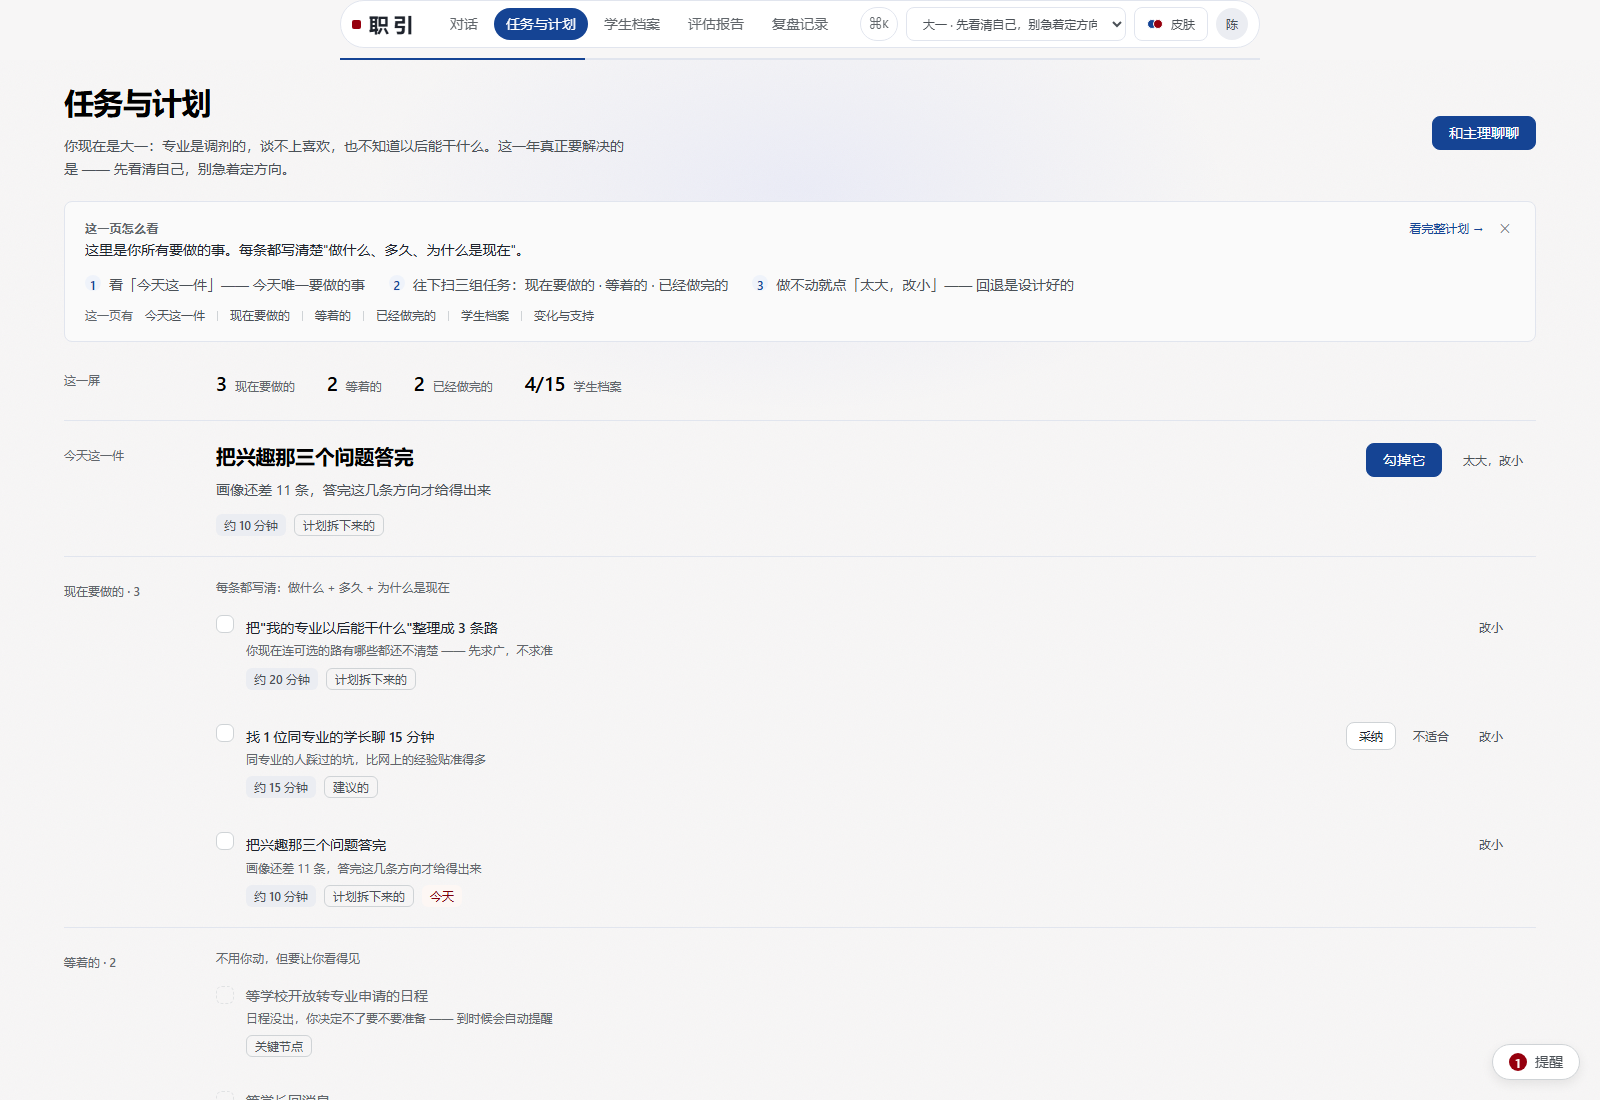
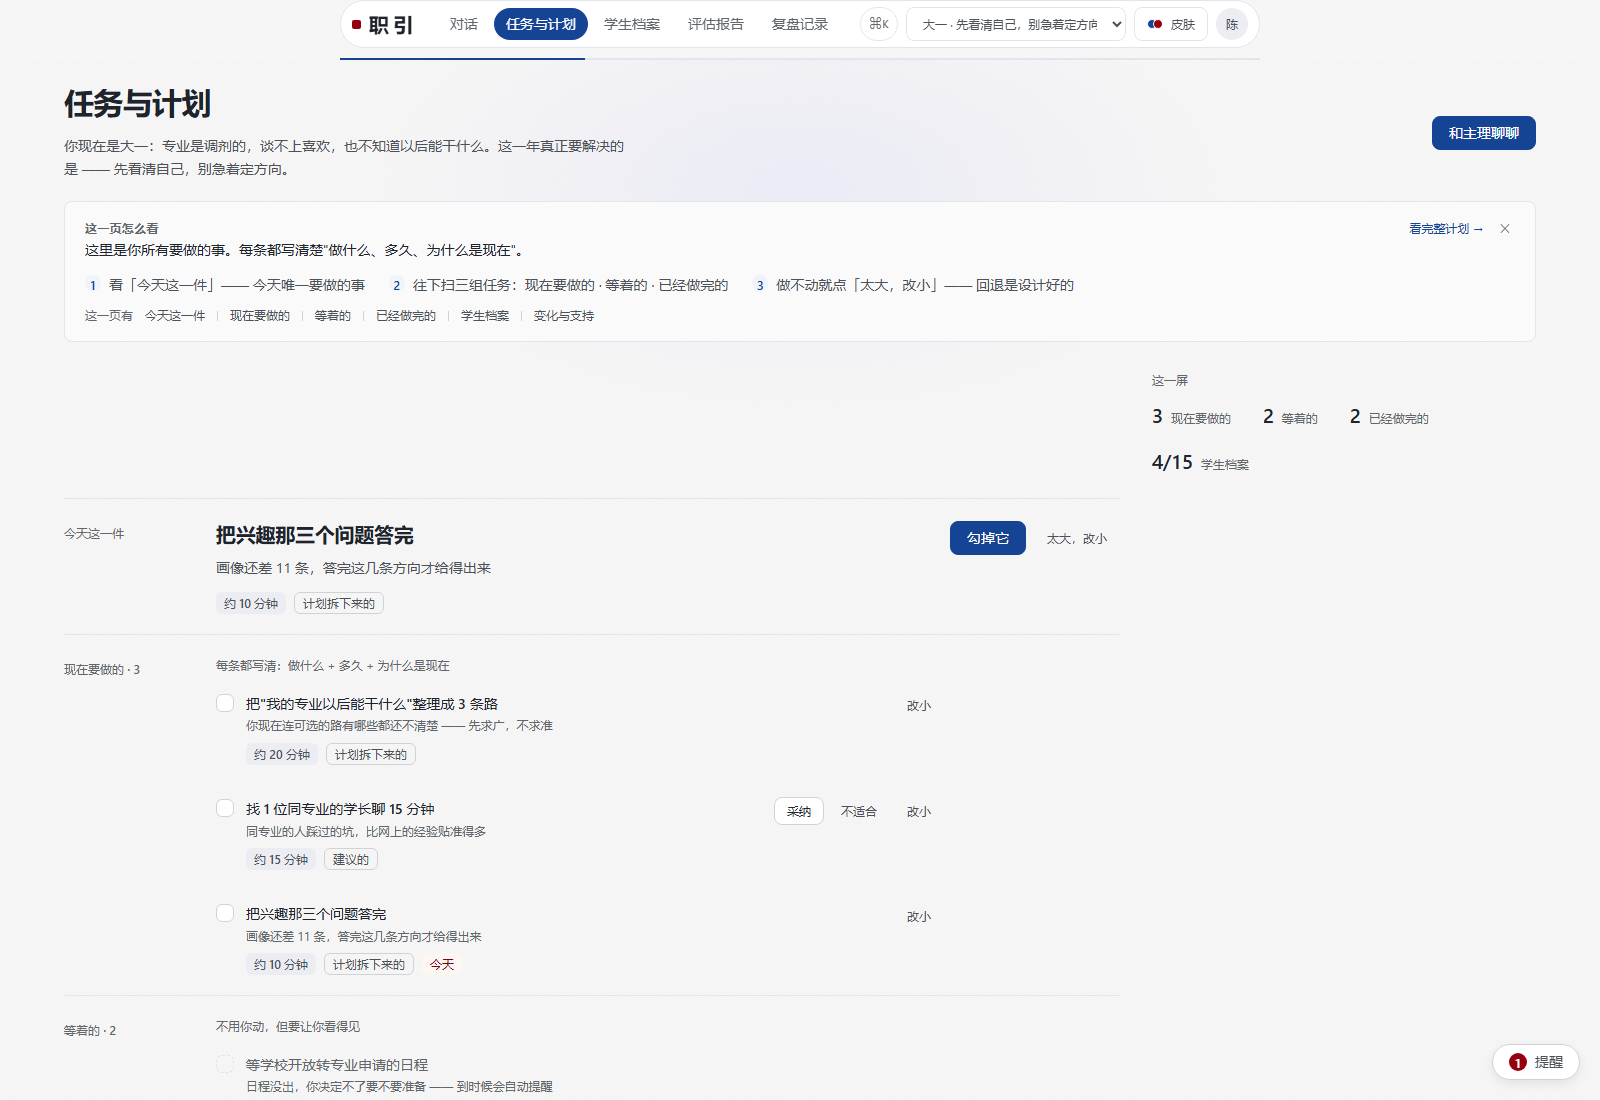
新前端：首页改成两区（清单 + 常驻状态），列表行不再横跨整页
客户的原话：「上下左右都有信息，用户不知道如何使用」。
结构上的原因：账页每行横跨 1520px —— 左侧标签格在 x=215、动作在最右 x=1450，
眼睛要横跨 1200px 才能把一行读完。上一轮只给了阅读顺序（入口带），没解决横向铺开。

改动：
- 首页 .ledger--rail 两区：
  · 左栏（1056px）今天这一件 + 三组任务 —— 清单，一条从上到下的顺序
  · 右栏（384px）这一屏计数 + 学生档案进度 —— 常驻状态，不占左栏的注意力
  · 末行"变化与支持"通栏（它本身就是并排两栏，塞进 384px 会挤坏）
  右栏被真内容占住，所以不是"收窄版心再留一片白"。
- 列表行收在 52em（实测 728px）：内容与它的动作贴在一起，
  不再需要横跨 1200px 去够最右边那个按钮。
  行的归属由**标签文字**决定（这一屏/学生档案→右栏，变化与支持→通栏），
  不写死行序 —— 以后插一行不会错位。
- 1080px 以下退回单栏。

实测：网格 1056+384；右栏两行落在 x=1143；通栏 1472；列表行 728px。
build / check-contrast / check-classes 三条门禁全绿。

diff --git a/redesign-demo/src/views/HomeView.vue b/redesign-demo/src/views/HomeView.vue
@@ -79,11 +79,11 @@ function badgeClass(t: TaskItem) {
       to-label="看完整计划"
     />
 
-    <div class="ledger">
+    <div class="ledger ledger--rail">
       <!-- 紧凑统计条（2026-10-12 新加）：这一屏"有几个什么"摊在一条线上，一眼看完，
            不用往下滚。它刻意不做成"大数字 + 强调色"的 hero metric ——
            数字与正文同级、无强调色、无独立卡片。 -->
-      <section class="ledger__row">
+      <section class="ledger__row ledger__row--rail">
         <p class="ledger__label">这一屏</p>
         <div class="ledger__body">
           <div class="tally">
@@ -201,7 +201,7 @@ function badgeClass(t: TaskItem) {
       </section>
 
       <!-- 学生档案：进度不再是"第二列的一张卡"，而是账页里的一行 -->
-      <section class="ledger__row">
+      <section class="ledger__row ledger__row--rail">
         <p class="ledger__label">学生档案 · {{ progress.known }}/{{ progress.total }}</p>
         <div class="ledger__body">
           <p class="progress__text">{{ partialCopy(progress.known, progress.gap) }}</p>
@@ -225,7 +225,7 @@ function badgeClass(t: TaskItem) {
       </section>
 
       <!-- 最后一行：两件"说明"并排。它们本来就不必各占一整行。 -->
-      <section class="ledger__row">
+      <section class="ledger__row ledger__row--wide">
         <p class="ledger__label">变化与支持</p>
         <div class="ledger__body ledger__body--pair">
           <div>
@@ -386,5 +386,12 @@ function badgeClass(t: TaskItem) {
 .mini__row dd {
   margin: 0;
   font-weight: var(--fw-medium);
+}
+
+/* 【2026-10-12】列表行不再横跨整个版心：内容 + 它的动作收在 52em 内，
+   眼睛不用横跨 1200px 去够最右边那个按钮。右边那 384px 由常驻状态栏占用，
+   不是留白 —— 所以没有回到"太空"。 */
+.task {
+  max-width: 52em;
 }
 </style>

diff --git a/redesign-demo/src/styles/base.css b/redesign-demo/src/styles/base.css
@@ -1677,3 +1677,43 @@ html.is-skin-switching *::after {
     grid-column: 1;
   }
 }
+
+/* ===========================================================================
+   两区账页（.ledger--rail）
+   ---------------------------------------------------------------------------
+   客户：「上下左右都有信息，用户不知道如何使用。」
+   单栏通宽时，每行要横跨 1520px 才能读完 —— 左侧标签在 x=215，动作在 x=1450。
+   这里把它变成两区：左栏是清单，右栏是**常驻状态**（计数、进度）。
+   两区，一条从上到下的阅读顺序，眼睛不再左右横跳。
+   末行用 --wide 通栏（它本身就是并排两栏的内容，塞进 384px 会挤坏）。
+   =========================================================================== */
+.ledger--rail {
+  display: grid;
+  grid-template-columns: minmax(0, 1fr) 384px;
+  column-gap: var(--sp-7);
+  align-items: start;
+}
+
+.ledger--rail > .ledger__row {
+  grid-column: 1;
+}
+
+.ledger--rail > .ledger__row--rail {
+  grid-column: 2;
+}
+
+.ledger--rail > .ledger__row--wide {
+  grid-column: 1 / -1;
+}
+
+/* 右栏那几行不再拧成"标签 + 内容"三格，改成上下叠 —— 384px 里放不下三格 */
+.ledger--rail > .ledger__row--rail {
+  grid-template-columns: minmax(0, 1fr);
+  gap: var(--sp-2);
+}
+
+@media (max-width: 1080px) {
+  .ledger--rail {
+    grid-template-columns: minmax(0, 1fr);
+  }
+}
